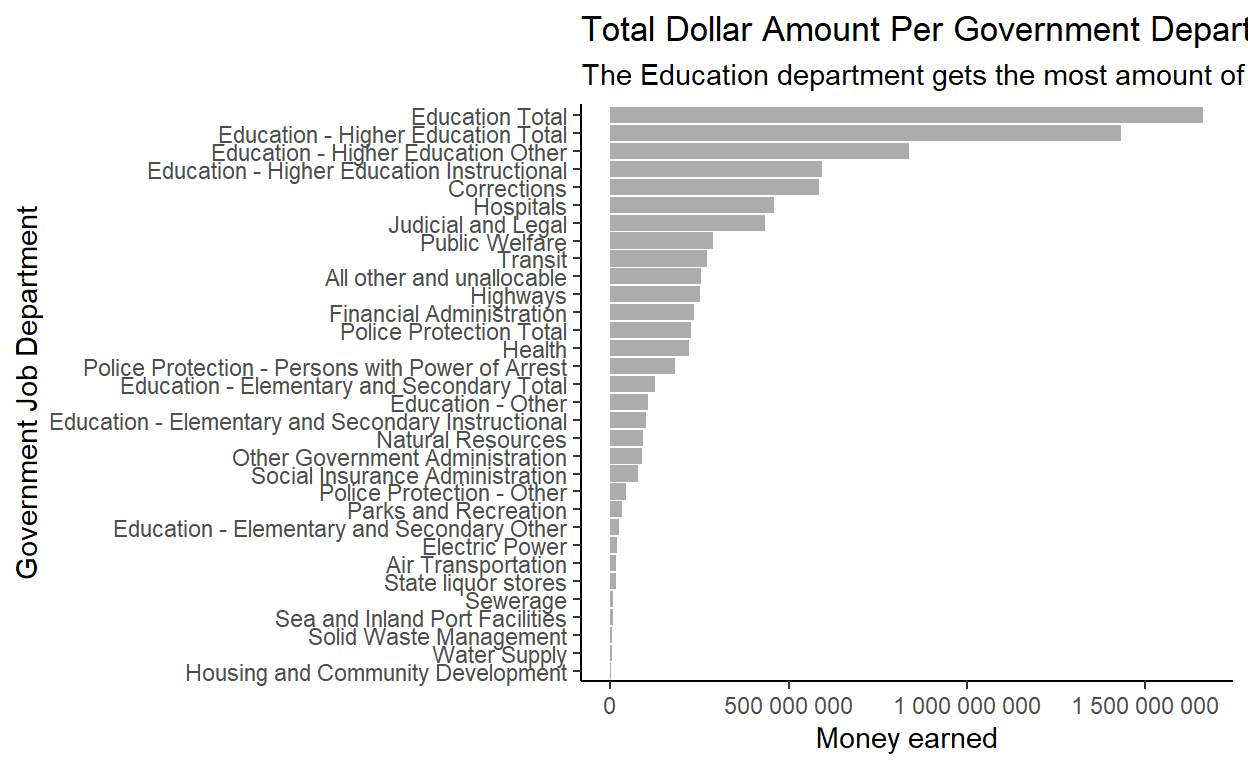
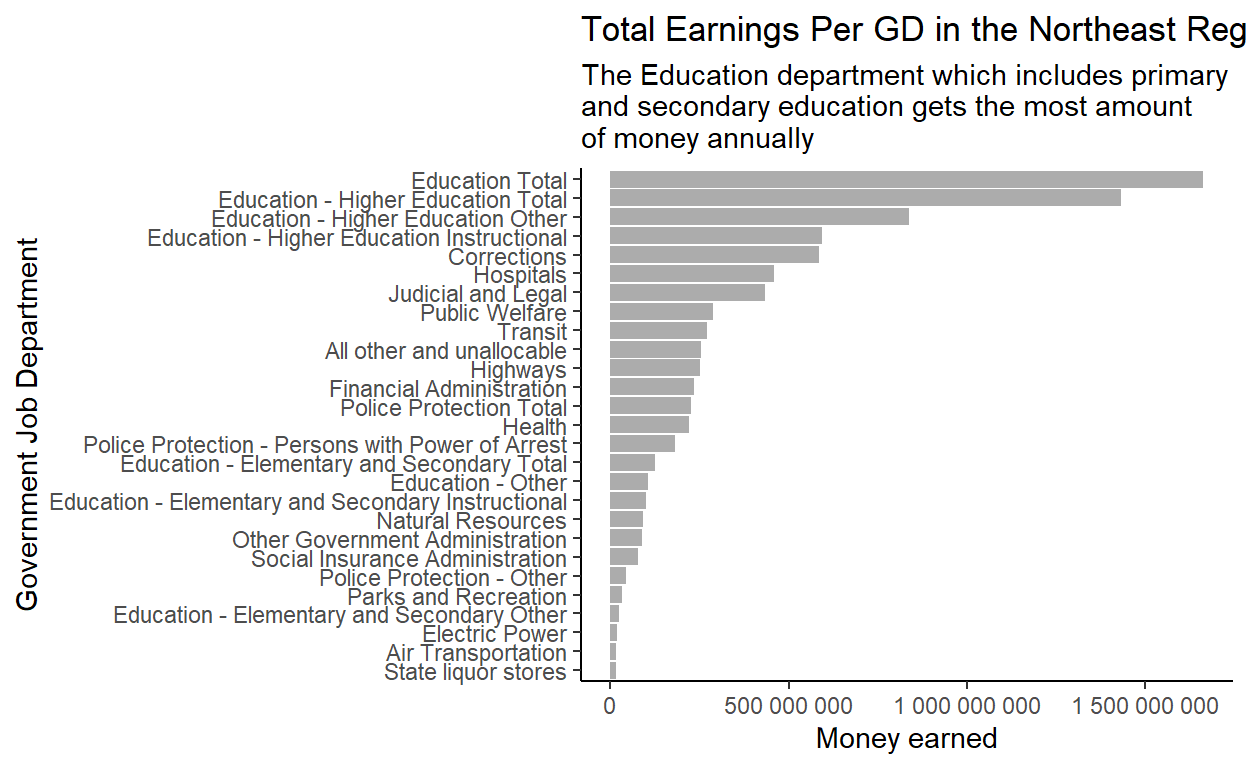
ok

Changed region(s): [[0.0, 0.0, 1.0, 0.9062]]

diff --git a/docs/index.html b/docs/index.html
@@ -2083,33 +2083,35 @@ code span.wa { color: #5e5e5e; font-style: italic; } /* Warning */
 
 
 <div class="d-article">
-<div class="layout-chunk" data-layout="l-page">
-
-</div>
-<h2 id="usa-graph">USA Graph</h2>
+<h2 id="information">Information</h2>
+These graphs below show the total amount of earnings each government department(GD) in each state earn anually. ## USA Graph
 <div class="layout-chunk" data-layout="l-body">
 <p><img src="index_files/figure-html5/raw_data,%20x-1.png" width="624" /></p>
 </div>
+<h2 id="southwest-region-graph">Southwest Region Graph</h2>
 <div class="layout-chunk" data-layout="l-body">
 <p><img src="index_files/figure-html5/unnamed-chunk-2-1.png" width="624" /></p>
 </div>
+<h2 id="central-region-graph">Central Region Graph</h2>
 <div class="layout-chunk" data-layout="l-body">
 <p><img src="index_files/figure-html5/unnamed-chunk-3-1.png" width="624" /></p>
 </div>
+<h2 id="midwest-region-graph">Midwest Region Graph</h2>
 <div class="layout-chunk" data-layout="l-body">
 <p><img src="index_files/figure-html5/table_2-1.png" width="624" /></p>
 </div>
+<h2 id="northeast-region-graph">Northeast Region Graph</h2>
 <div class="layout-chunk" data-layout="l-body">
 <p><img src="index_files/figure-html5/unnamed-chunk-4-1.png" width="624" /></p>
 </div>
+<h2 id="west-region-graph">West Region Graph</h2>
 <div class="layout-chunk" data-layout="l-body">
 <p><img src="index_files/figure-html5/unnamed-chunk-5-1.png" width="624" /></p>
 </div>
+<h2 id="south-region-graph">South Region Graph</h2>
 <div class="layout-chunk" data-layout="l-body">
 <p><img src="index_files/figure-html5/unnamed-chunk-6-1.png" width="624" /></p>
 </div>
-<h2 id="description">Description</h2>
-<p>The USA graph shows the total amount of money each department earns annually in the whole country.</p>
 <div class="sourceCode" id="cb1"><pre class="sourceCode r distill-force-highlighting-css"><code class="sourceCode r"></code></pre></div>
 <!--radix_placeholder_article_footer-->
 <!--/radix_placeholder_article_footer-->
